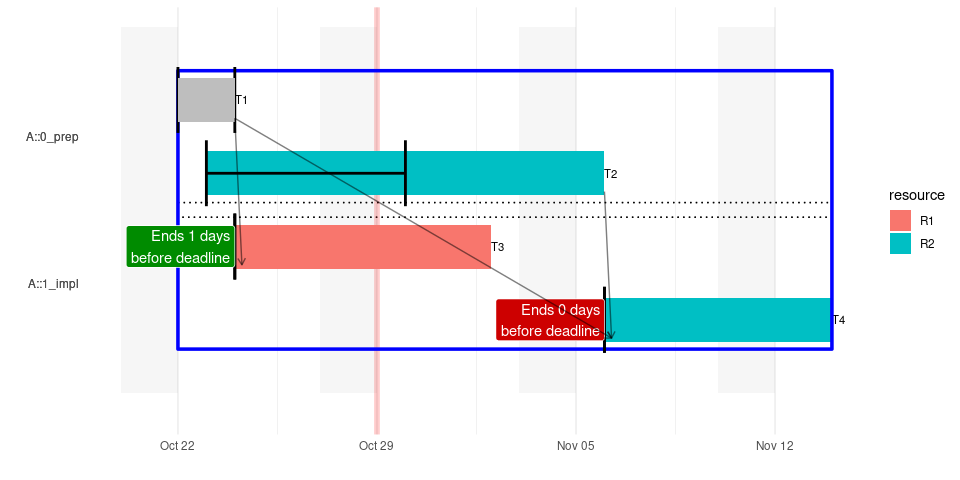
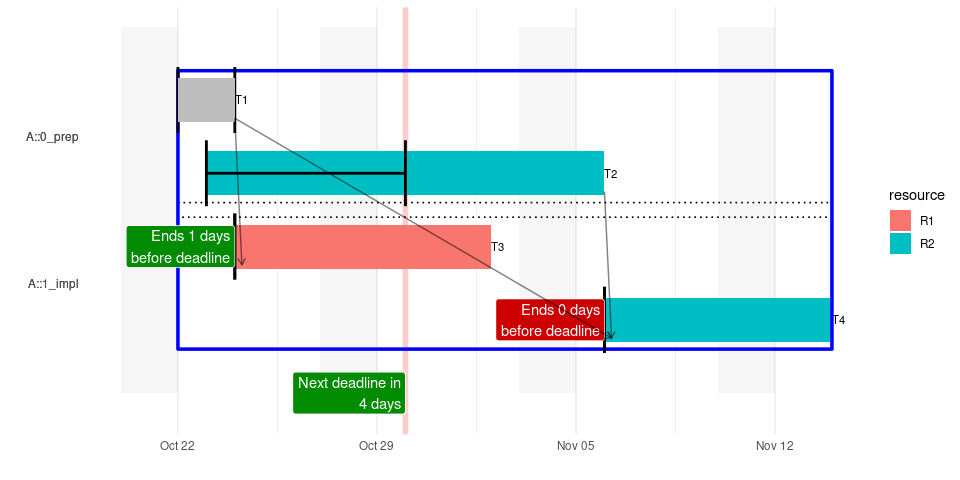
README updated

Changed region(s): [[0.2812, 0.5625, 0.4375, 0.9062], [0.375, 0.0, 0.4375, 0.3125], [0.375, 0.4062, 0.4375, 0.4688]]

diff --git a/README.md b/README.md
@@ -45,7 +45,7 @@ is due today a warning is logged.
 plan <- 
   projectPlan::wrangle_raw_plan(raw_plan) %>% 
   projectPlan::calculate_time_lines()
-#> WARN [2018-10-29 22:15:24] DEADLINE TODAY OR ALREADY UNMET (change logging-threshold to INFO to see all columns)
+#> WARN [2018-10-30 21:51:26] DEADLINE TODAY OR ALREADY UNMET (change logging-threshold to INFO to see all columns)
 #> 
 #>    project   section   id time_start   time_end   deadline progress
 #> 1:       A A::1_impl A::d 2018-11-06 2018-11-14 2018-11-14        0
@@ -82,7 +82,8 @@ Note that the number of days the end date of a task is away from the
 corresponding deadline is adjusted for weekends, for instance *T3* will
 be done by Thrusday night and the deadline is on the following Monday.
 Hence, there is one day left, i.e. Friday, before the deadline is
-reached.
+reached. The label attached to the vertical bar displays the distance in
+days from today to the next deadline.
 
 ## Other packages for visualization
 
